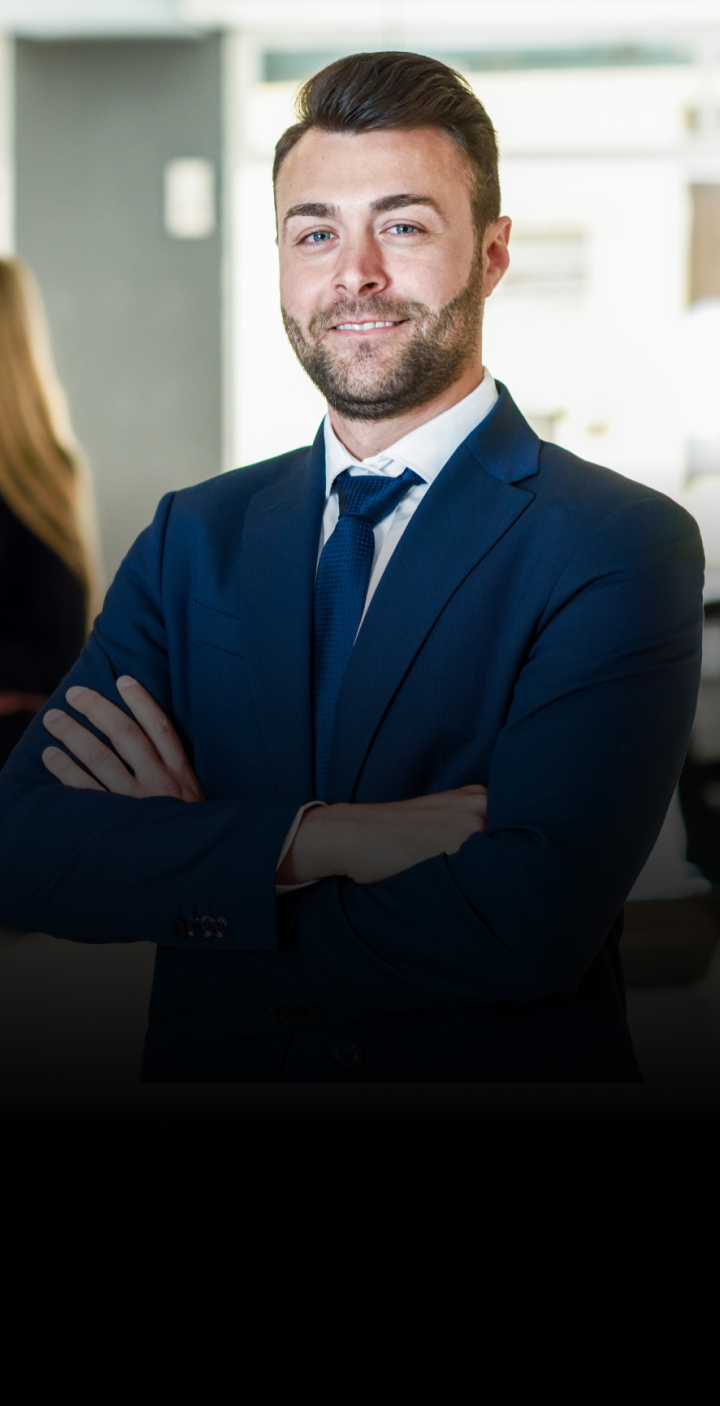
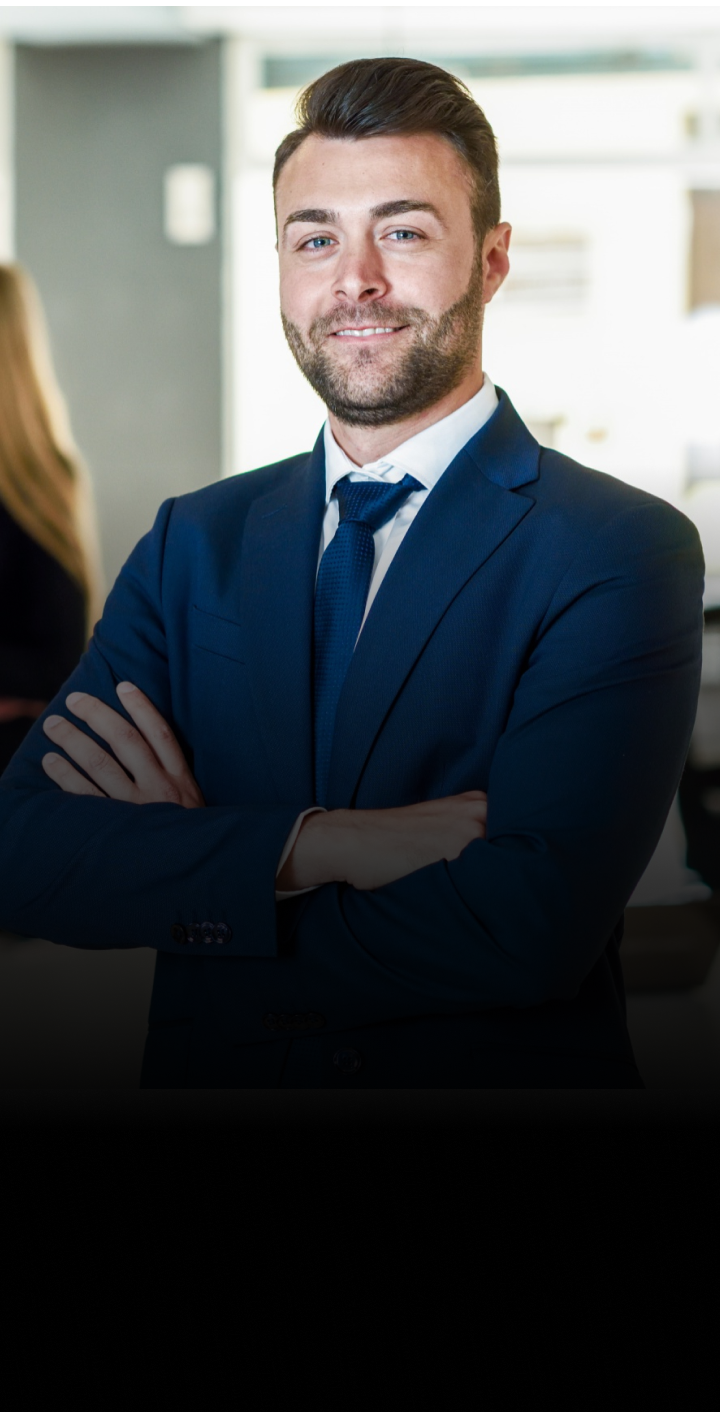
fixed code

diff --git a/src/become_a_partner.html b/src/become_a_partner.html
@@ -201,7 +201,9 @@
                         <a href="#form-link" class="col50__link js-menu-hash-item" data-aos="fade-in" data-aos-duration="500">Join Us</a>
                     </div>
                     <div class="col50 col50--right" data-aos="fade-in" data-aos-duration="500">
-                        <img class="col50__img col50__img--544 img-lazy" src="/img/base/bg-p2.png" alt="Doctor" title="Doctor">
+                        <div class="col50__image">
+                            <img class="col50__img col50__img--544 img-lazy" src="/img/base/bg-p2.png" alt="Doctor" title="Doctor">
+                        </div>
                     </div>
                 </div>
             </div>
@@ -219,7 +221,9 @@
                         <a href="#form-link" class="col50__link js-menu-hash-item" data-aos="fade-in" data-aos-duration="500">Join Us</a>
                     </div>
                     <div class="col50 col50--right" data-aos="fade-in" data-aos-duration="500">
-                        <img class="col50__img col50__img--544 img-lazy" src="/img/base/bg-p3.png" alt="Doctor" title="Doctor">
+                        <div class="col50__image">
+                            <img class="col50__img col50__img--544 img-lazy" src="/img/base/bg-p3.png" alt="Doctor" title="Doctor">
+                        </div>
                     </div>
                 </div>
             </div>
@@ -238,7 +242,9 @@
                         <a href="#form-link" class="col50__link js-menu-hash-item" data-aos="fade-in" data-aos-duration="500">Join Us</a>
                     </div>
                     <div class="col50 col50--right" data-aos="fade-in" data-aos-duration="500">
-                        <img class="col50__img col50__img--544 img-lazy" src="/img/base/bg-p4.png" alt="Doctor" title="Doctor">
+                        <div class="col50__image">
+                            <img class="col50__img col50__img--544 img-lazy" src="/img/base/bg-p4.png" alt="Doctor" title="Doctor">
+                        </div>
                     </div>
                 </div>
             </div>
@@ -258,7 +264,9 @@
                         <a href="#form-link" class="col50__link js-menu-hash-item" data-aos="fade-in" data-aos-duration="500">Join Us</a>
                     </div>
                     <div class="col50 col50--right" data-aos="fade-in" data-aos-duration="500">
-                        <img class="col50__img col50__img--544 img-lazy" src="/img/base/bg-p5.png" alt="Doctor" title="Doctor">
+                        <div class="col50__image">
+                            <img class="col50__img col50__img--544 img-lazy" src="/img/base/bg-p5.png" alt="Doctor" title="Doctor">
+                        </div>
                     </div>
                 </div>
             </div>

diff --git a/src/sass/blocks/_become_a_partner.scss b/src/sass/blocks/_become_a_partner.scss
@@ -16,7 +16,7 @@
         //height: 820px;
         //background-image: url("/img/base/bg-2x.png");
         //background-size: cover;
-        //background-position: center right;
+        //background-position: center center;
     }
 }
 
@@ -25,6 +25,7 @@
 
     @include sm {
         display: block;
+        //width: 100%;
         width: 100vw;
         height: auto;
         object-fit: cover;
@@ -97,12 +98,17 @@
 
 .partner-s__box {
     width: 100%;
-    height: 100%;
+    height: auto;
     z-index: 3;
     position: absolute;
     bottom: 0;
     left: 0;
+    display: flex;
+
     @include sm {
+        height: 100%;
+        align-items: center;
+        justify-content: center;
         top: 0;
         left: 0;
         bottom: auto;
@@ -114,13 +120,13 @@
     display: flex;
     flex-direction: column;
     align-items: center;
-    padding: 0 0 56px;
+    //padding: 0 0 56px;
     height: 100%;
 
     @include sm {
         max-width: 582px;
         width: 100%;
-        padding: 246px 0;
+        //padding: 246px 0;
     }
 
     @include sm-down {
@@ -235,14 +241,18 @@
     }
 }
 
-.partner-s1 .btn-rect {
-    @include sm-down() {
-        margin-bottom: 40px;
+.p-110 {
+    padding: 90px 0;
+
+    @include sm{
+        padding: 44px 0;
     }
 }
 
-.p-110 {
-    padding: 110px 0;
+.col50__image {
+    height: 95vh;
+    min-height: 540px;
+    max-height: 740px;
 }
 
 .partner-s2 .col50.col50--right {

diff --git a/src/js/basic-init.js b/src/js/basic-init.js
@@ -74,28 +74,6 @@ document.addEventListener('DOMContentLoaded', () => {
         })
     })
 
-    // let images = document.querySelectorAll('.img-lazy');
-    // const options = {
-    //     root: null,
-    //     rootMargin: '0px',
-    //     threshold: 0.1
-    // }
-    //
-    // function handleImg(myImg, observer) {
-    //     myImg.forEach(myImgSingle => {
-    //         if(myImgSingle.intersectionRatio > 0) {
-    //             loadImage(myImgSingle.target);
-    //         }
-    //     })
-    // }
-    // function loadImage(image) {
-    //     image.src = image.getAttribute('data-src');
-    // }
-    // const observer = new IntersectionObserver(handleImg, options);
-    // images.forEach(img => {
-    //     observer.observe(img);
-    // });
-
     // focus label
     let inptElems = document.querySelectorAll('.form__input');
     let textareaElems = document.querySelectorAll('.form__textarea');
